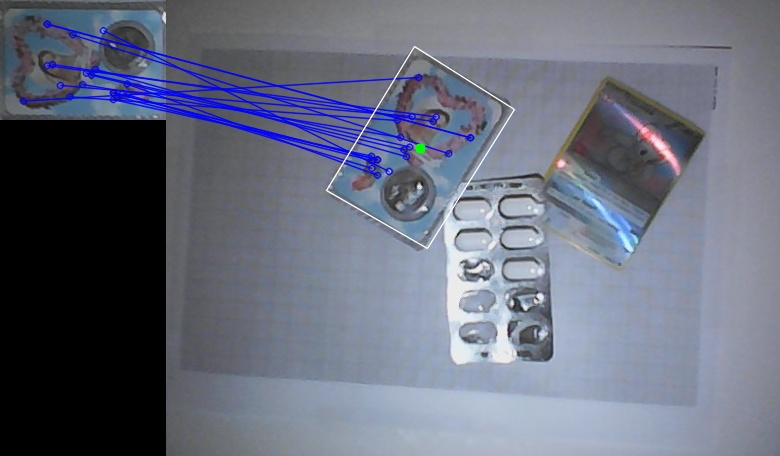
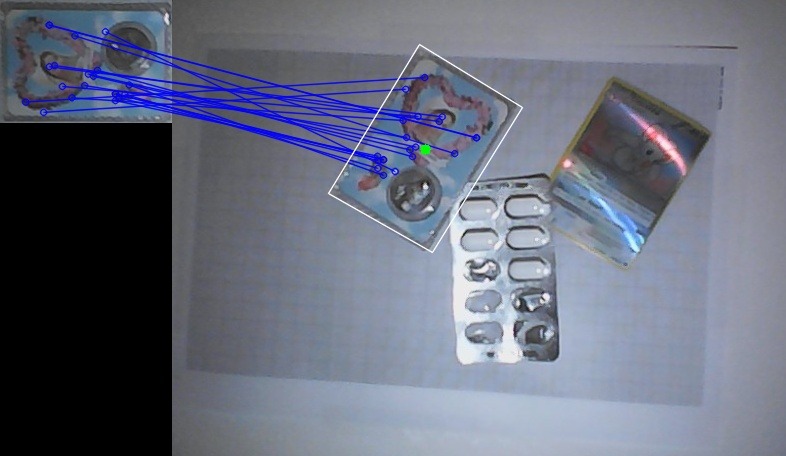
Finished LV1!

diff --git a/calibration.py b/calibration.py
@@ -1,3 +1,4 @@
+import math
 import os
 
 import cv2
@@ -23,6 +24,9 @@ found = False
 
 for p in pictures:
     if successes >= max_images:
+        pts = image_points[-1].reshape(board_height, board_width, 2)
+        dx = np.diff(pts[:, :, 0], axis=1)
+        avg_square_px = np.mean(np.abs(dx))
         break
 
     img = cv2.imread(p)
@@ -34,8 +38,7 @@ for p in pictures:
     img_clone = img.copy()
     img_gray = cv2.cvtColor(img_clone, cv2.COLOR_BGR2GRAY)
 
-    found, corners = cv2.findChessboardCorners(img_gray, board_size, 
-        cv2.CALIB_CB_ADAPTIVE_THRESH + cv2.CALIB_CB_FAST_CHECK + cv2.CALIB_CB_NORMALIZE_IMAGE)
+    found, corners = cv2.findChessboardCorners(img_gray, board_size, cv2.CALIB_CB_ADAPTIVE_THRESH + cv2.CALIB_CB_FAST_CHECK + cv2.CALIB_CB_NORMALIZE_IMAGE)
     
     if found:
         print("Chessboard found in:", p)
@@ -114,6 +117,30 @@ cv2.imshow("Object Model", object_model)
 cv2.imshow("SIFT Keypoints on First Image", cv2.drawKeypoints(object_model, kp_first, None))
 cv2.waitKey(0)
 
+# Funtion for clicking coordinates on milimeter paper
+points = []
+def click(event,x,y,flags,param):
+    if event == cv2.EVENT_LBUTTONDOWN:
+        points.append([x,y])
+        print("Clicked:",x,y)
+
+cv2.imshow("image", undistorted_first)
+cv2.setMouseCallback("image", click)
+cv2.waitKey(0)
+
+image_pts = np.array(points, dtype=np.float32)
+
+y = 270
+x = 180
+world_pts = np.array([
+    [0,0],
+    [0,y],
+    [x,y],
+    [x,0]
+], dtype=np.float32)
+
+H, _ = cv2.findHomography(image_pts, world_pts)
+
 for p in pictures_object[1:]:
     print("Processing:", p)
     img = cv2.imread(p)
@@ -146,28 +173,44 @@ for p in pictures_object[1:]:
     pts = np.float32([[0, 0], [0, h_m - 1], [w_m - 1, h_m - 1], [w_m - 1, 0]]).reshape(-1, 1, 2)
     dst = cv2.perspectiveTransform(pts,M)
     dst += (w_m, 0)
+    dst_real = cv2.perspectiveTransform(pts,M)
 
     img_matches = cv2.drawMatches(object_model, kp_first, undistorted_img, kp_sec, good_matches, None, matchColor=(255,0,0), singlePointColor=(255,0,0), flags=cv2.DrawMatchesFlags_NOT_DRAW_SINGLE_POINTS)
     img_matches = cv2.polylines(img_matches, [np.int32(dst)], True, (255,255,255),1, cv2.LINE_AA)
 
-    # Centroid - arithmetic mean of the corners of the detected object
-    cx = int(dst[:,0,0].mean())
-    cy = int(dst[:,0,1].mean())
-    cv2.circle(img_matches, (cx, cy), 5, (0,255,0), -1)
-    file_name = p.split('\\')[-1] 
-    save_path = os.path.join('Results', f"matched_{file_name}")
-    success = cv2.imwrite(save_path, img_matches)
-    cv2.imshow("Matched Features", img_matches)
+    # Centroid
+    if len(good_matches) > 0:
+        centroid = np.mean(dst, axis=0)
+        cv2.circle(img_matches, (int(centroid[0][0]), int(centroid[0][1])), 5, (0,255,0), -1)
+    cv2.imshow("Matches", img_matches)
     cv2.waitKey(0)
 
-    # Orientation - angle between the horizontal axis and the line connecting the first and last corner of the detected object
-    x1, y1 = dst[0,0]
-    x4, y4 = dst[3,0]
-    dx = x4 - x1
-    dy = y4 - y1
-    angle_rad = np.arctan2(dy, dx)
-    angle_deg = np.degrees(angle_rad)
-    print(f"Centroid: ({cx}, {cy}), Orientation: {angle_deg:.2f} degrees")
+    # Coordinates and orientation
+    pts = dst_real.reshape(4,2)
+    cx = np.mean(pts[:,0])
+    cy = np.mean(pts[:,1])
+    pixel = np.array([[[cx,cy]]], dtype=np.float32)
+    world = cv2.perspectiveTransform(pixel, H)
+
+    x_mm = world[0][0][0]
+    y_mm = world[0][0][1]
+
+    vec = pts[0] - pts[1] # Vector along the X-axis of the object
+    angle_rad = math.atan2(vec[1], vec[0])
+    angle_deg = math.degrees(angle_rad) 
+
+    # Drawing the orientation arrow
+    start_point = (int(pts[0][0]), int(pts[0][1]))
+    end_point = (int(pts[1][0]), int(pts[1][1]))
+    cv2.line(img_matches, start_point, end_point, (0, 0, 255), 3)
+    cv2.arrowedLine(img_matches, start_point, end_point, (0, 0, 255), 3, tipLength=0.3)
+    cv2.imshow("Orientation", img_matches)
+    cv2.waitKey(0)
+
+    print("Object position on paper:")
+    print("X =", x_mm, "mm")
+    print("Y =", y_mm, "mm")
+    print("Orientation:", angle_deg, "degrees")
 
 cv2.destroyAllWindows()
 
